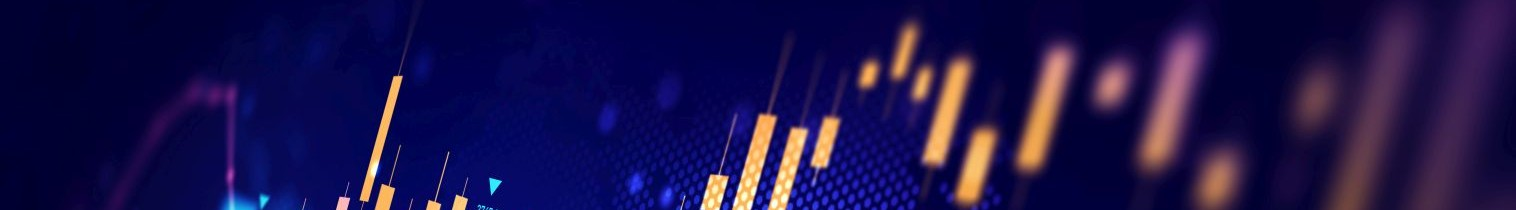
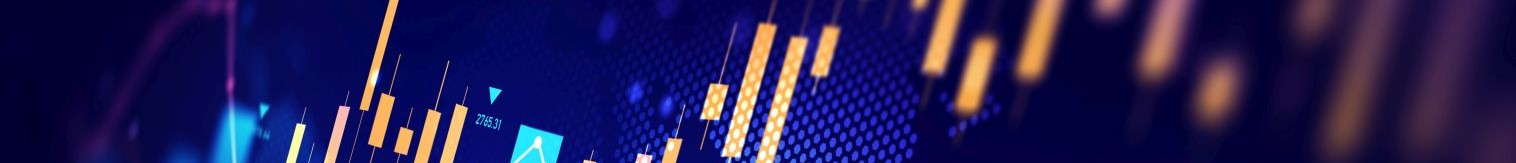
header all ready

diff --git a/css/style.css b/css/style.css
@@ -1,5 +1,3 @@
-
-
 body {
     font-family: Arial, sans-serif;
     margin: 0;
@@ -7,42 +5,50 @@ body {
 }
 
 header {
-    background-color: grey;
-    color: white;
-    
+    background-size: contain;
+    background-repeat: no-repeat;
+    background-attachment: fixed;
+    width: auto;
+    height: 4em;
 }
 
 nav {
     background-color: #ec592d;
     color: black;
+    padding: .2em;
 }
 
 nav ul {
     list-style: none;
-    padding: 0 2em;
+    padding: 0em 2em;
     margin: 0;
     display: flex;
     justify-content: space-around;
-    width: 50%;
+    align-items: center; /* Center items vertically */
+    width: 60%;
     font-weight: bold;
 }
 
 nav ul li {
-    margin: 0;
+    font-size: 1.2em;
 }
 
 nav ul li a {
     background-color: #ec592d;
     color: #fff;
     text-decoration: none;
-    padding: 15px 20px;
+    padding: .5em 20px;
     display: block;
+    height: 100%; /* Ensure full height of parent element */
+    display: flex;
+    align-items: center; /* Center text vertically */
+    border-radius: 10px;
 
 }
 
 nav ul li a.active {
-  
-  background-image: linear-gradient(#05005e, #0800a3);
+    background-image: linear-gradient(#05005e, #0800a3);
+    border: solid black .2em;
 }
 
 nav ul li a:hover:not(.active) {
@@ -53,7 +59,7 @@ nav ul li a:hover:not(.active) {
 
 section {
     padding: 0px;
-    margin-top: -20px;
+    margin-top: 0x;
 }
 
 section h1, section h2 {
@@ -62,9 +68,20 @@ section h1, section h2 {
     padding-left: 1em;
 }
 
+.translucent {
+    background-color: rgba(255, 255, 255, 0.2); /* White with 80% opacity */
+    padding: 10px 30px;
+    border-radius: 10px; /* Optional: Adds rounded corners */
+    margin: 0px;
+}
+
+.translucent h1, .translucent p {
+    color: white;
+}
+
 footer {
     display: block;
-    background-color:darkcyan;
+    background-color: darkcyan;
     color: white;
     padding: .1em 1em;
 }

diff --git a/index.html b/index.html
@@ -8,15 +8,8 @@
    </head>
 
 <body>
-    <header>
-        <div class="background-image" style="
-        background-image: url('./images/blue-bar-graph-background-resize-v3.jpg');
-        background-size: contain;
-        background-repeat: no-repeat;
-        background-attachment: fixed;
-        width: auto;
-        height: 4em;">
-    </header>
+  <header style="background-image: url('./images/blue-bar-graph-background-resize-v3.jpg');">
+  </header>
 
     <nav>
         <ul>
@@ -33,27 +26,30 @@
         background-size: cover;
         background-repeat: no-repeat;
         background-attachment: fixed;
-        width: 100%;">
+        width: 100%;
+        padding: 1em;">
 
-    <section id="home">
-        <h1>Welcome to Dave's Portfolio</h1>
-        <p>This is the home section.</p>
-    </section>
+        <section id="home">
+            <h1 class="translucent">
+                Welcome to Dave's Portfolio
+            </h1>
+            <p>This is the home section.</p>
+        </section>
 
-    <section id="about">
-        <h2>About Us</h2>
-        <p>This is the about section.</p>
-    </section>
+        <section id="about">
+            <h2>About Us</h2>
+            <p>This is the about section.</p>
+        </section>
 
-    <section id="services">
-        <h2>Our Services</h2>
-        <p>This is the services section.</p>
-    </section>
+        <section id="services">
+            <h2>Our Services</h2>
+            <p>This is the services section.</p>
+        </section>
 
-    <section id="contact">
-        <h2>Contact Us</h2>
-        <p>This is the contact section.</p>
-    </section>
+        <section id="contact">
+            <h2>Contact Us</h2>
+            <p>This is the contact section.</p>
+        </section>
 
     </div>
 

diff --git a/about.html b/about.html
@@ -12,11 +12,10 @@
   </head>
 
   <body>
+    <header style="background-image: url('./images/blue-bar-graph-background-resize-v4.jpg');">
+    </header>
+    
     <nav>
-      <header>
-        <h1>About me</h1>
-      </header>
-
       <ul class="nav-links">
         <li><a href="index.html">Home</a></li>
         <li><a class="active" href="about.html">About</a></li>
@@ -30,7 +29,8 @@
       background-size: cover;
       background-repeat: no-repeat;
       background-attachment: fixed;
-      width: 100%;">
+      width: 100%;
+      padding: 1em;">">
 
       <div class="body-text">
         <h1>This is About Page!</h1>

diff --git a/services.html b/services.html
@@ -12,11 +12,10 @@
   </head>
 
   <body class="services">
+    <header style="background-image: url('./images/blue-bar-graph-background-resize-v2.jpg');">
+    </header>
+    
     <nav>
-      <header>
-        <h1>Services</h1>
-      </header>
-
       <ul class="nav-links">
         <li><a href="index.html">Home</a></li>
         <li><a href="about.html">About</a></li>

diff --git a/contact.html b/contact.html
@@ -12,11 +12,10 @@
   </head>
 
   <body>
-    <nav>
-      <header>
-        <h1>Contact me</h1>
-      </header>
+    <header style="background-image: url('./images/blue-bar-graph-background-resize-v5.jpg');">
+    </header>
 
+    <nav>
       <ul class="nav-links">
         <li><a href="index.html">Home</a></li>
         <li><a href="about.html">About</a></li>
